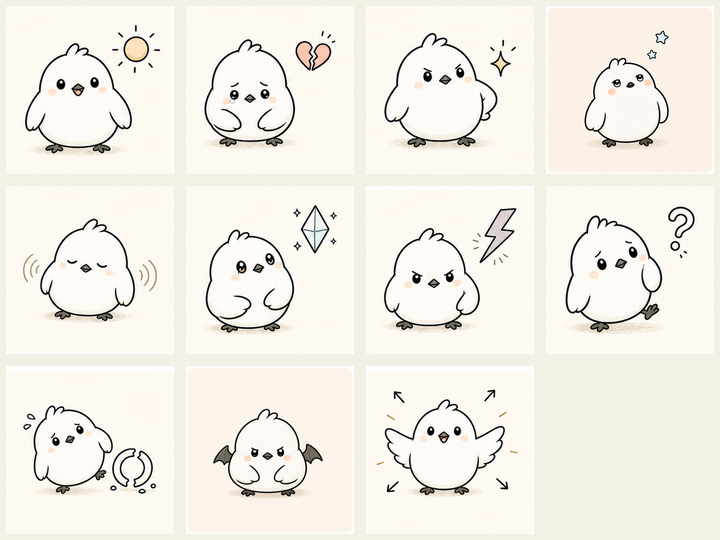
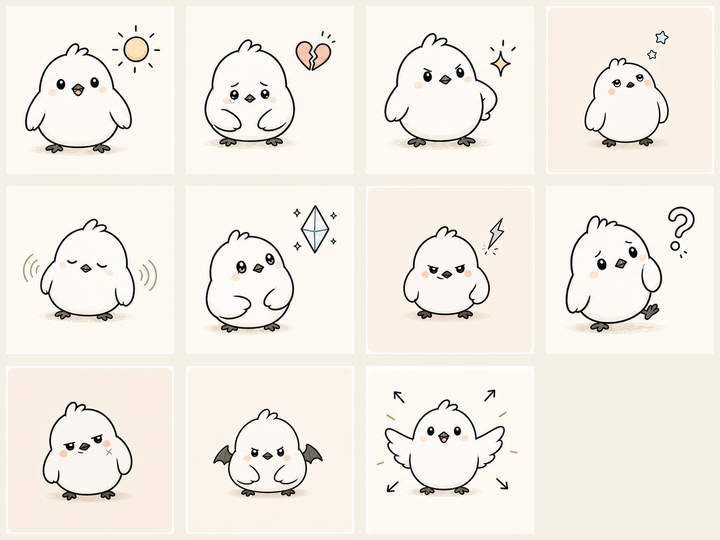
Refine mm7 and m7-5 action expressions

diff --git a/app/index.html b/app/index.html
@@ -4,7 +4,7 @@
     <meta charset="utf-8">
     <meta name="viewport" content="width=device-width, initial-scale=1">
     <title>Codori MVP</title>
-    <link rel="stylesheet" href="./styles.css?v=20260530-dim-add9-v3">
+    <link rel="stylesheet" href="./styles.css?v=20260530-mm7-m75-v3">
   </head>
   <body>
     <main class="app-shell">
@@ -221,6 +221,6 @@
       </section>
     </main>
 
-    <script src="./main.js?v=20260530-dim-add9-v3"></script>
+    <script src="./main.js?v=20260530-mm7-m75-v3"></script>
   </body>
 </html>

diff --git a/app/main.js b/app/main.js
@@ -106,7 +106,7 @@ const ONE_POINT_ACCENTS = {
   },
   mM7: {
     slug: "mm7",
-    title: "宿命の斜め小片",
+    title: "犯人の含み笑い",
     asset: "assets/app/accents/imagegen-v1/mm7.png"
   },
   sus4: {
@@ -116,7 +116,7 @@ const ONE_POINT_ACCENTS = {
   },
   "m7-5": {
     slug: "m7-5",
-    title: "揺れる傾きダイヤ",
+    title: "ニヒルなX傷",
     asset: "assets/app/accents/imagegen-v1/m7-5.png"
   },
   dim: {
